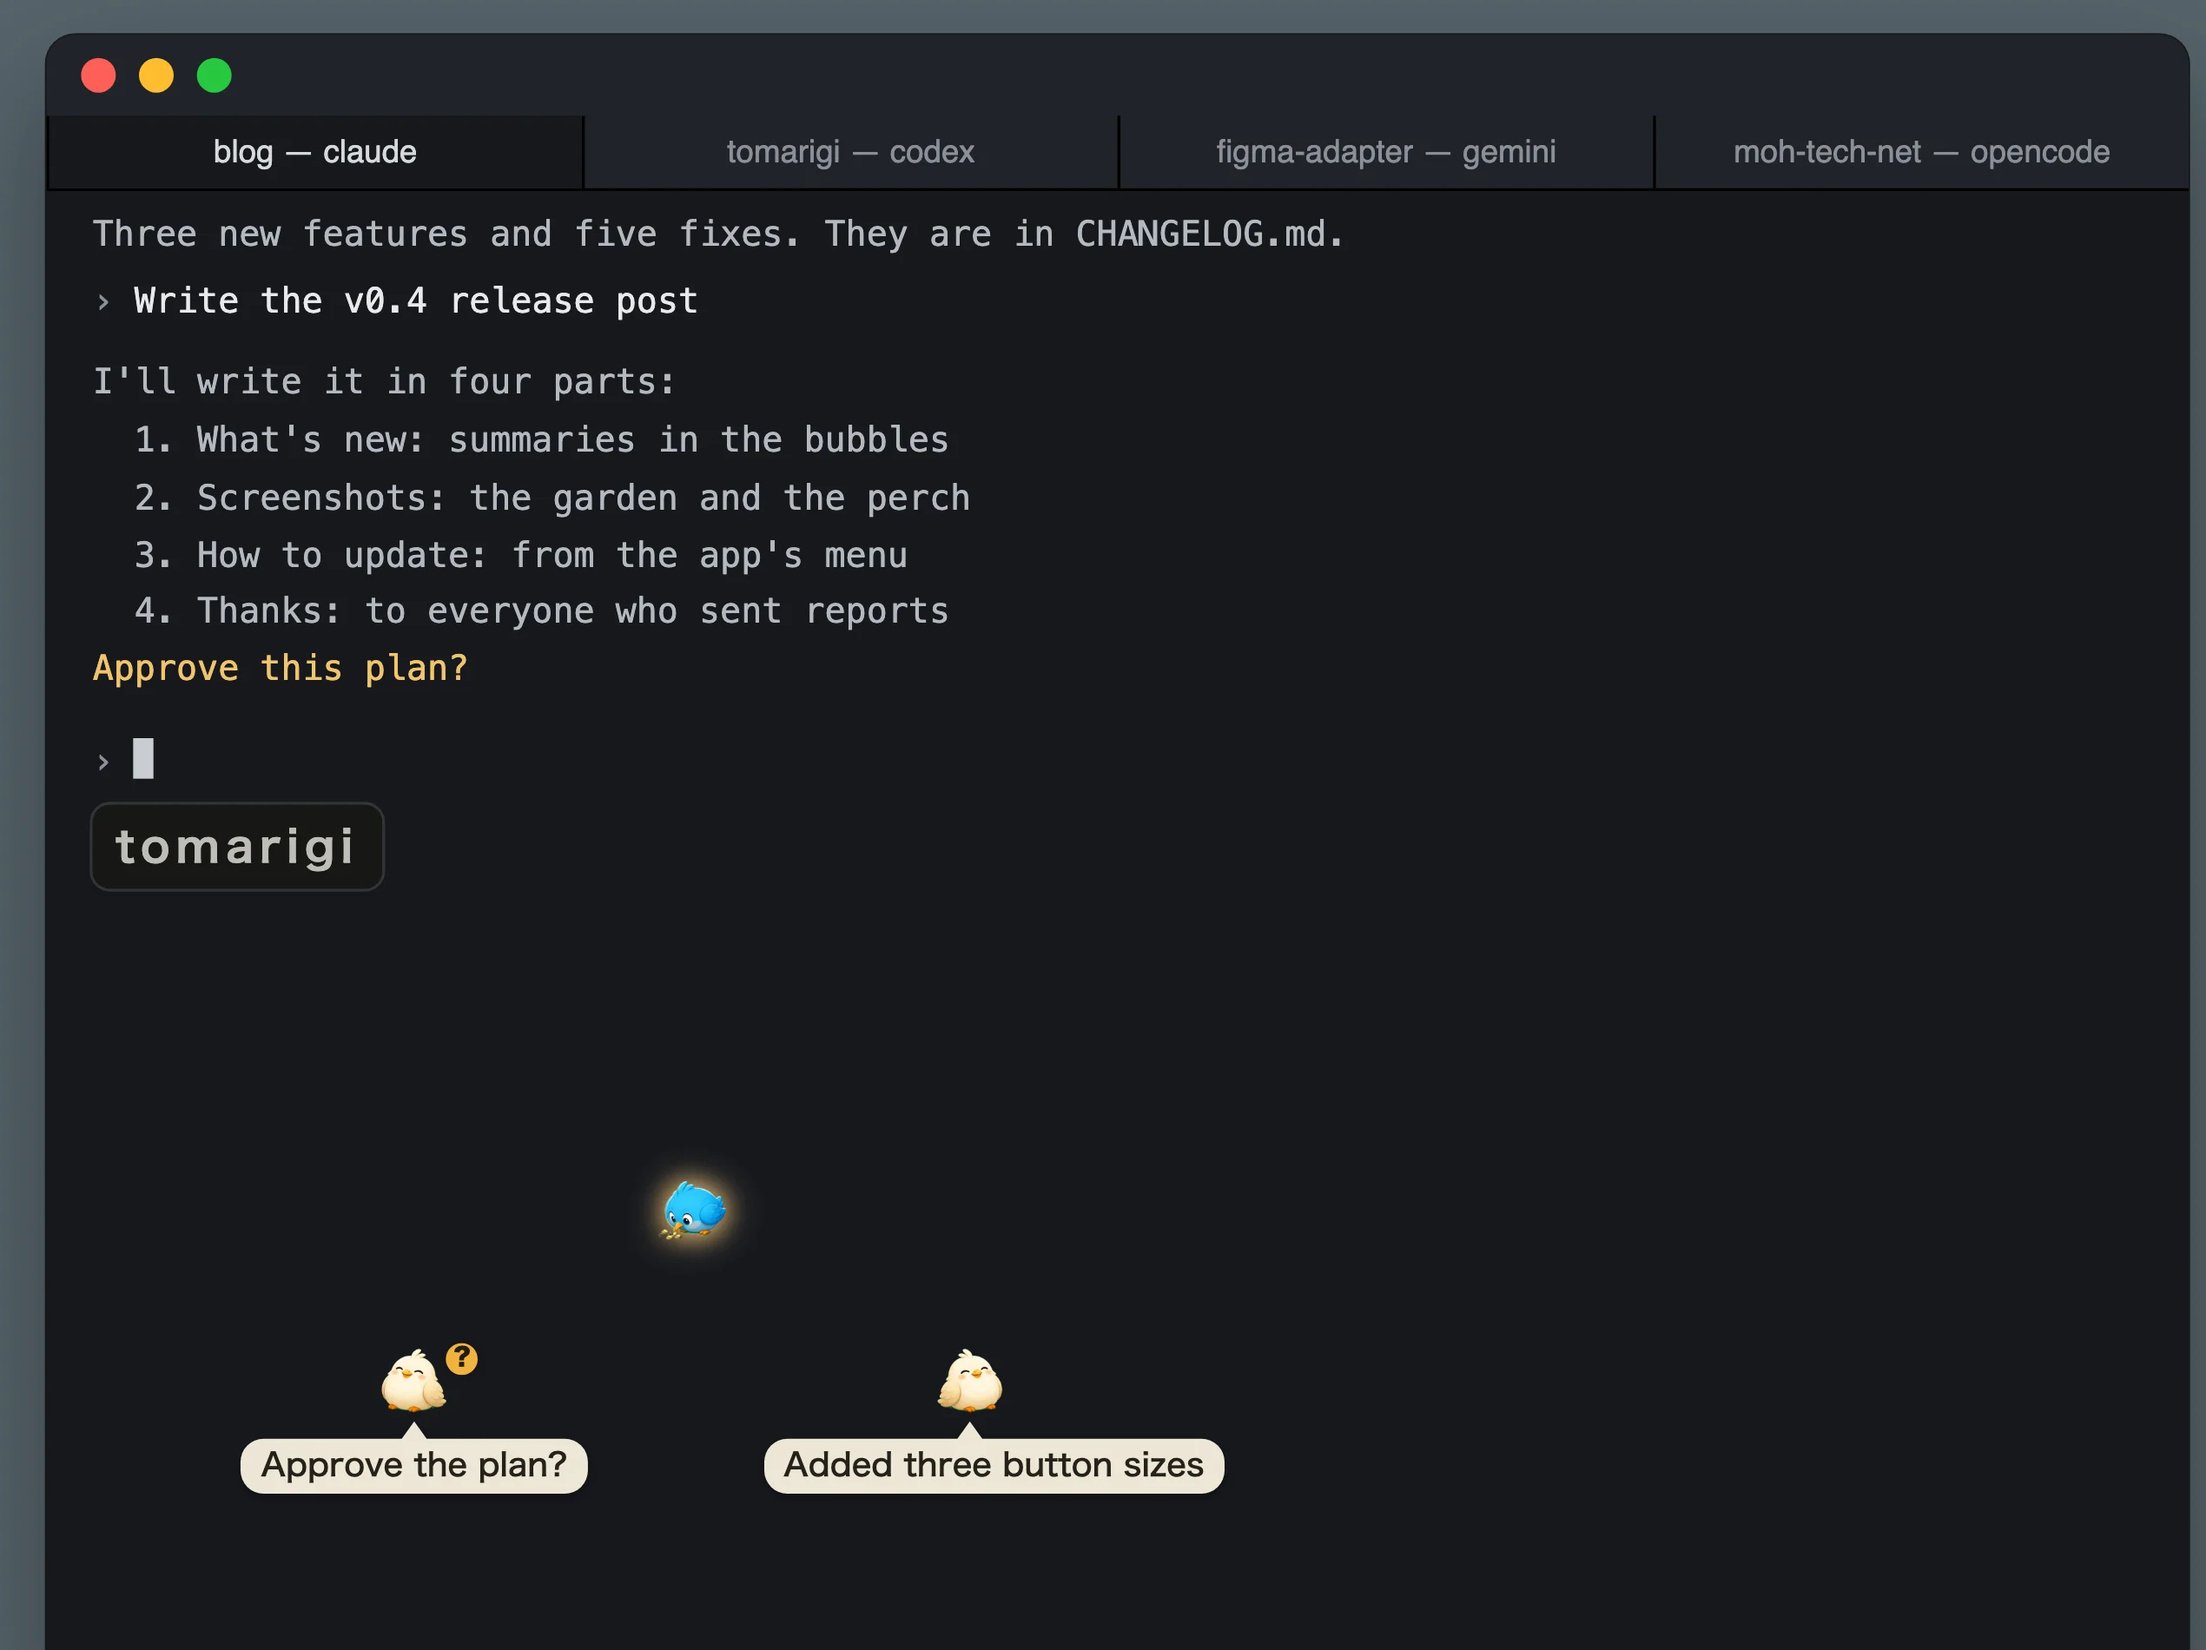
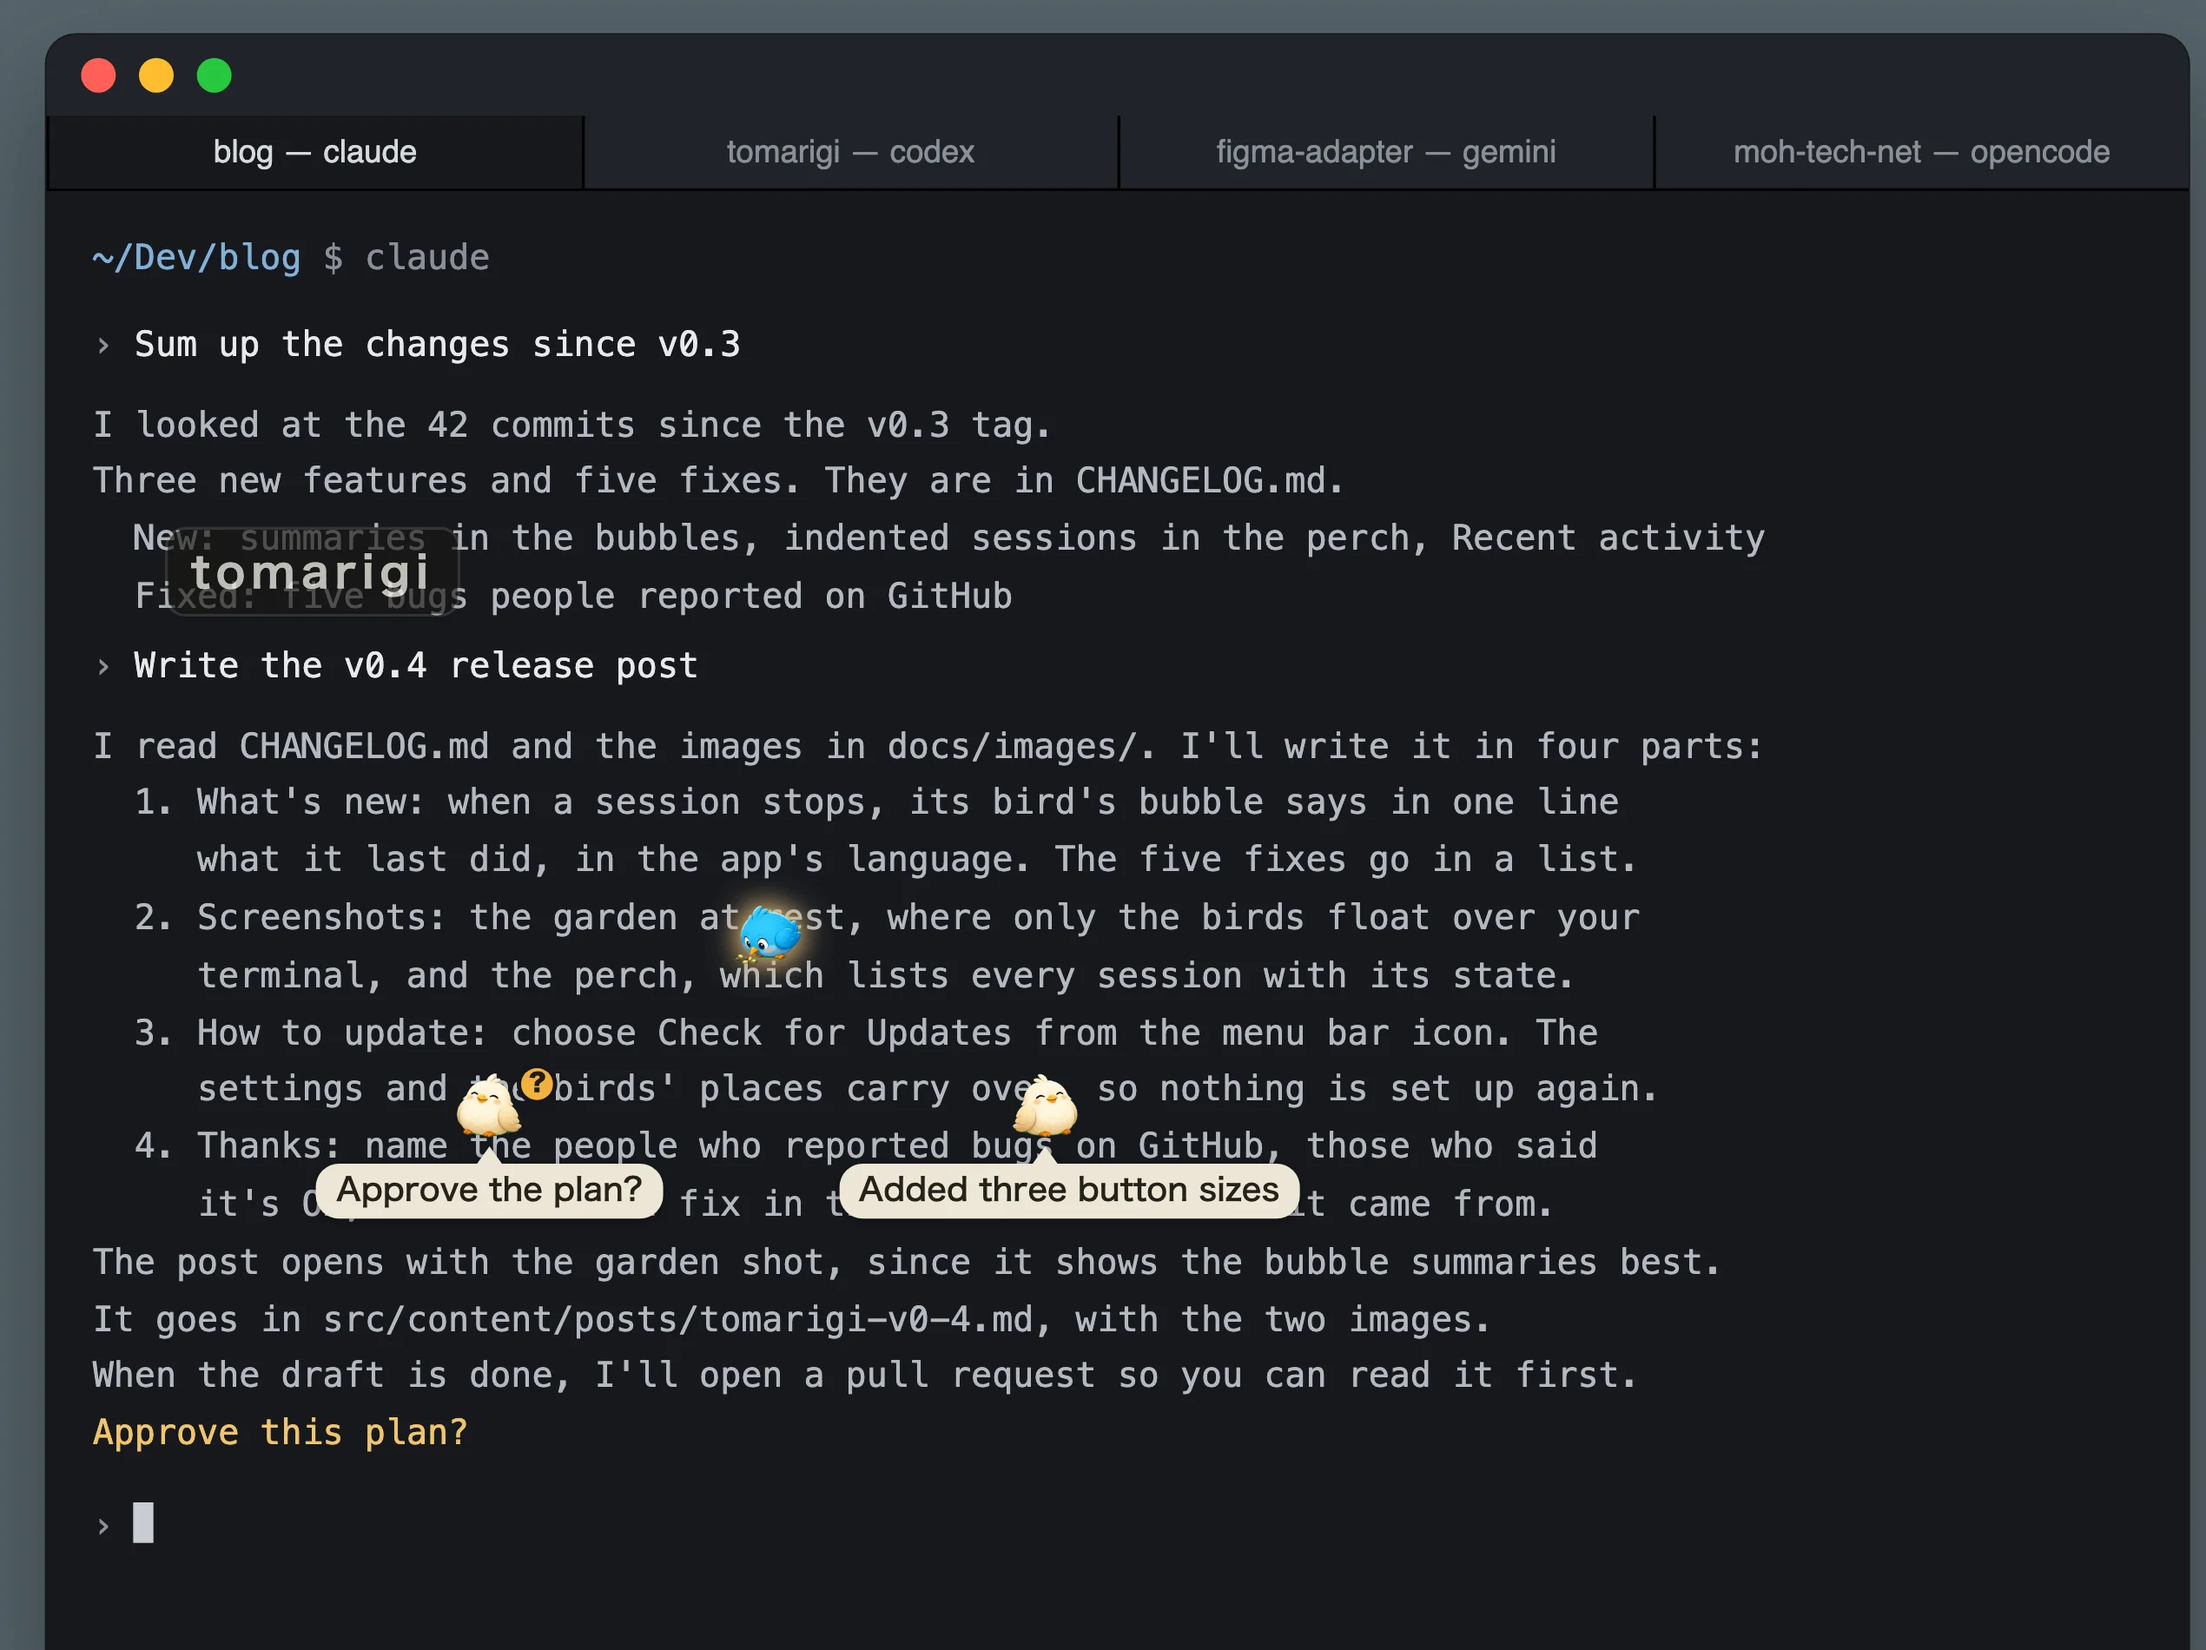
ギャラリー: にわの 3 羽と吹き出しを、端末の文字の上に重ねて撮り直す
ダウンロードページの hero に鳥のまわりだけを切り抜くと、後ろが空っぽで
端末の上に浮かんでいることも何のアプリかも伝わらなかった。
blog セッションの計画を、鳥の左右より長い行で書いて画面の下まで続け、
窓をその文字の上に置く。3 羽と吹き出しの画素の範囲を design.md に書く。
使わなくなった stage() の scroll を消す。

diff --git a/docs/design.md b/docs/design.md
@@ -98,11 +98,11 @@ A desktop app for macOS, Windows, and Linux (Tauri 2; see "Platforms") that watc
   2. Perch: with many sessions, one list shows each one's state and summary, and sessions handed work by another are indented under it
   3. Recent activity: what finished or started waiting, newest first, so what was missed can be found later
   - The earlier Garden shots ("one bird per session", the "?", the summary bubble) are dropped: they were the same window with a different thing to look at, and the first image already shows all three. Perch and Recent activity were not in the gallery before, and no reason was recorded (the user asked 「gardenいがいのたぶのしょうかいはなんでいれてないの？」). Perch and Recent activity are never faded, so their shots have the window background
-  - They are shot with `scripts/gallery/shoot.mjs`, which opens the mock in a browser (`bun run dev:web`, or a `vite build` served through Playwright with `DIST=`; `?mock=1&panel=0&preset=<gallery preset>`) in a frame over a desktop with a terminal, and sets the browser's language for each set. A browser rather than the app window, so the shots don't depend on the screen they are taken on and the language can be switched without changing the computer's (Claude's own decision). The frosted glass is drawn by the stage page with CSS. The birds' project names match the terminal's tabs, and the download page crops the first image to the window (Claude's own decision)
+  - They are shot with `scripts/gallery/shoot.mjs`, which opens the mock in a browser (`bun run dev:web`, or a `vite build` served through Playwright with `DIST=`; `?mock=1&panel=0&preset=<gallery preset>`) in a frame over a desktop with a terminal, and sets the browser's language for each set. A browser rather than the app window, so the shots don't depend on the screen they are taken on and the language can be switched without changing the computer's (Claude's own decision). The frosted glass is drawn by the stage page with CSS. The birds' project names match the terminal's tabs, and the download page crops the first image to the birds and their bubbles (below)
   - One set per language: English (app UI in English) for README.md and the English page, Japanese (app UI in Japanese) for README.ja.md and the Japanese page. Reviewers of the Japanese page flagged the English text in the images more than once (Claude's own decision to make a Japanese set)
   - No title text is baked into the image. The caption is written next to the image (README table cell, page HTML) so it can be translated and changed without reshooting (Claude's own decision)
-  - All three share the same background and the same scale of the app window, so they read as one set side by side; only the first image's terminal is scrolled further (Claude's own decision)
-  - The mock data names the agents the app supports today (not only Claude Code and Codex): the terminal behind the window has four tabs running Claude Code, Codex, Gemini CLI, and OpenCode, each in the folder of one of the birds (the Garden itself doesn't show which agent a bird is). The open tab is the blog session, whose question matches the blog bird's bubble; a reviewer read a bird drawn over another session's text as that session's bird when the terminal showed four panes. In the first image the birds sit on the empty part of the terminal below its text, since birds over text read as a broken screen to reviewers. They are put at saved (dragged) positions, left to right the "?", the working one, the done one, since the grid put the working bird against the "?" bird and the three read as cramped (the user: 「なおして」). They were then in one row across the window, which left most of the window empty and made them small in the download page's hero (the user: 「ダウンロードページのheroはたしかにちいさくみえるなしゅうせいして」). Now they take as little width as the garden allows without moving them: the garden keeps each bird's footprint (a bubble's 180px) 12px from the next, so the "?" and the done bird sit side by side and the working one, which has no bubble, sits above between them. The window is just wide enough for that, at the left edge of the terminal's text, and the terminal is scrolled so its question sits just above the window's handle; the terminal's question, the handle, and the birds with their bubbles fit in about 1300px of the 2540px image. The arrangement and the sizes are Claude's own decision. The working bird has no bubble: bubbles show only for a stopped turn or a question, so the image shows only its working glow. The text in the bubbles follows the UI language; tool names aren't shown, since they are English in every language
+  - All three share the same background and the same scale of the app window, so they read as one set side by side (Claude's own decision)
+  - The mock data names the agents the app supports today (not only Claude Code and Codex): the terminal behind the window has four tabs running Claude Code, Codex, Gemini CLI, and OpenCode, each in the folder of one of the birds (the Garden itself doesn't show which agent a bird is). The open tab is the blog session, whose question matches the blog bird's bubble; a reviewer read a bird drawn over another session's text as that session's bird when the terminal showed four panes. They are put at saved (dragged) positions, left to right the "?", the working one, the done one, since the grid put the working bird against the "?" bird and the three read as cramped (the user: 「なおして」). They were then in one row across the window, which left most of the window empty and made them small in the download page's hero (the user: 「ダウンロードページのheroはたしかにちいさくみえるなしゅうせいして」). Now they take as little width as the garden allows without moving them: the garden keeps each bird's footprint (a bubble's 180px) 12px from the next, so the "?" and the done bird sit side by side and the working one, which has no bubble, sits above between them. The window is just wide enough for that. The arrangement and the sizes are Claude's own decision. The birds and their bubbles sit over the terminal's text, which runs on behind them on every side. The birds were first put on the empty part of the terminal below its text, since reviewers read birds over text as a broken screen; the download page's hero then showed only the birds over an empty background, and it told neither that they float over the terminal nor what the app is (the user, on that crop: 「あたらしいすくしょは、これだとわからんよ」; then, on Claude's proposal to run the text on behind the birds: 「ちゃんともじにかぶるようにはいちしろよ」). The blog session's plan is written in long lines that run past the birds on both sides, and the conversation fills the pane down to the prompt, so the space under the handle is text too. The text is what the session would print next in that conversation, in each set's language. The download page crops the first image to the birds and their bubbles with the text around them; in the 2540x1900 image the birds and bubbles take x 355–1500, y 1017–1407 (English) and x 350–1505, y 1038–1404 (Japanese). The working bird has no bubble: bubbles show only for a stopped turn or a question, so the image shows only its working glow. The text in the bubbles follows the UI language; tool names aren't shown, since they are English in every language
 - The × at the right end of the header hides the window (bring it back from the menu bar icon). Its label says "hide window", not "close", so it isn't mistaken for leaving settings or a dialog
 - The header and the row under it (the tabs, or the settings bar while in settings) stay at the top; only the content below them scrolls. The add-folder dialog follows the same rule: its title and × stay in view and only its content scrolls
 - The debug log is a screen like settings: it replaces the tabs' content under the header (the header buttons stay), shows a "‹ Back" row in place of the tabs, and closes with Back, the debug button again, or Esc. Settings and the debug log are never open at the same time
